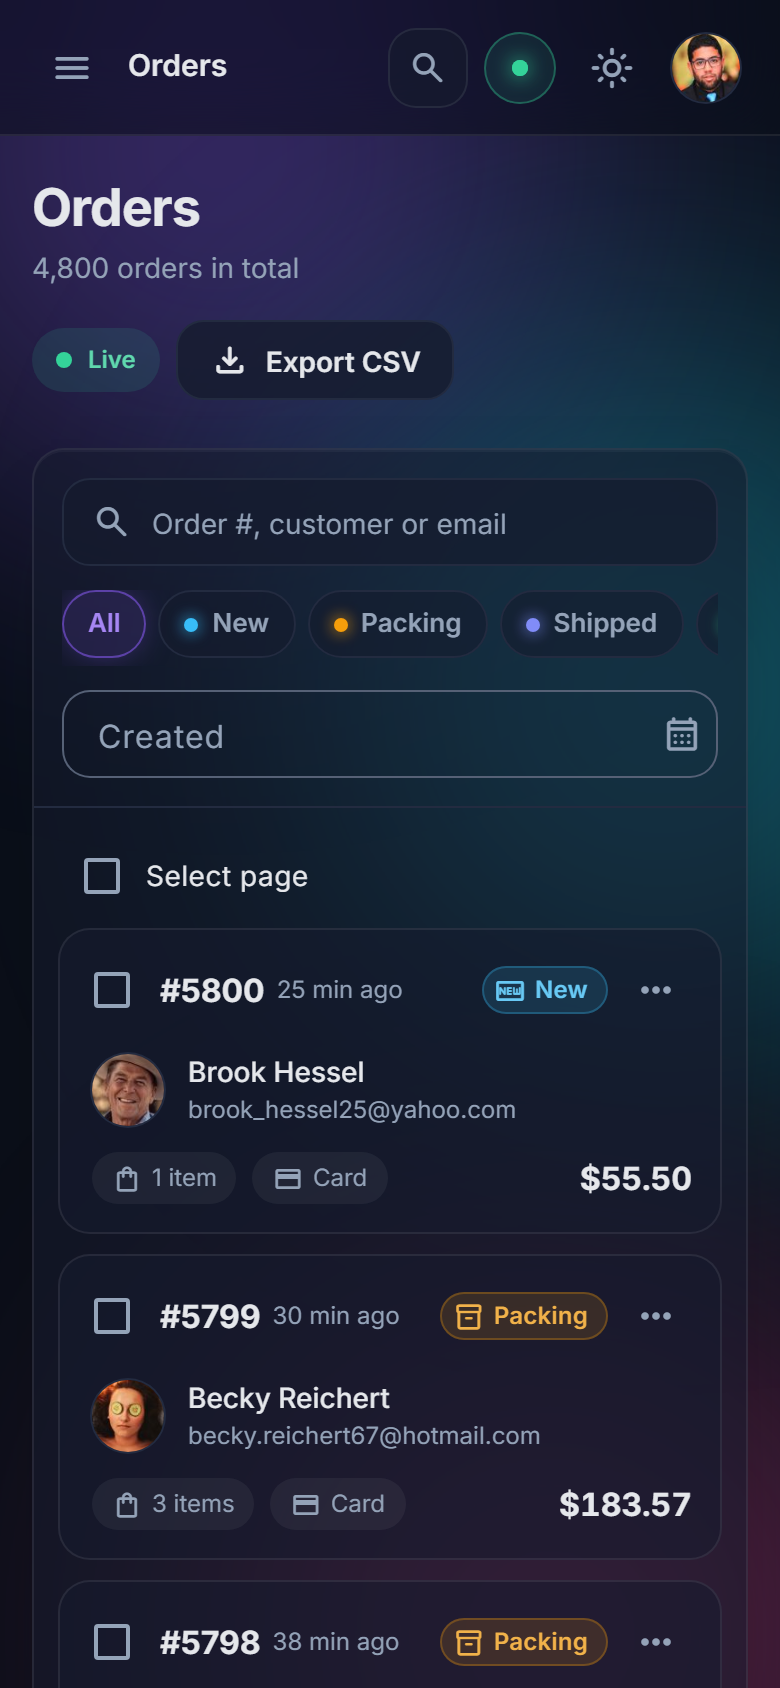
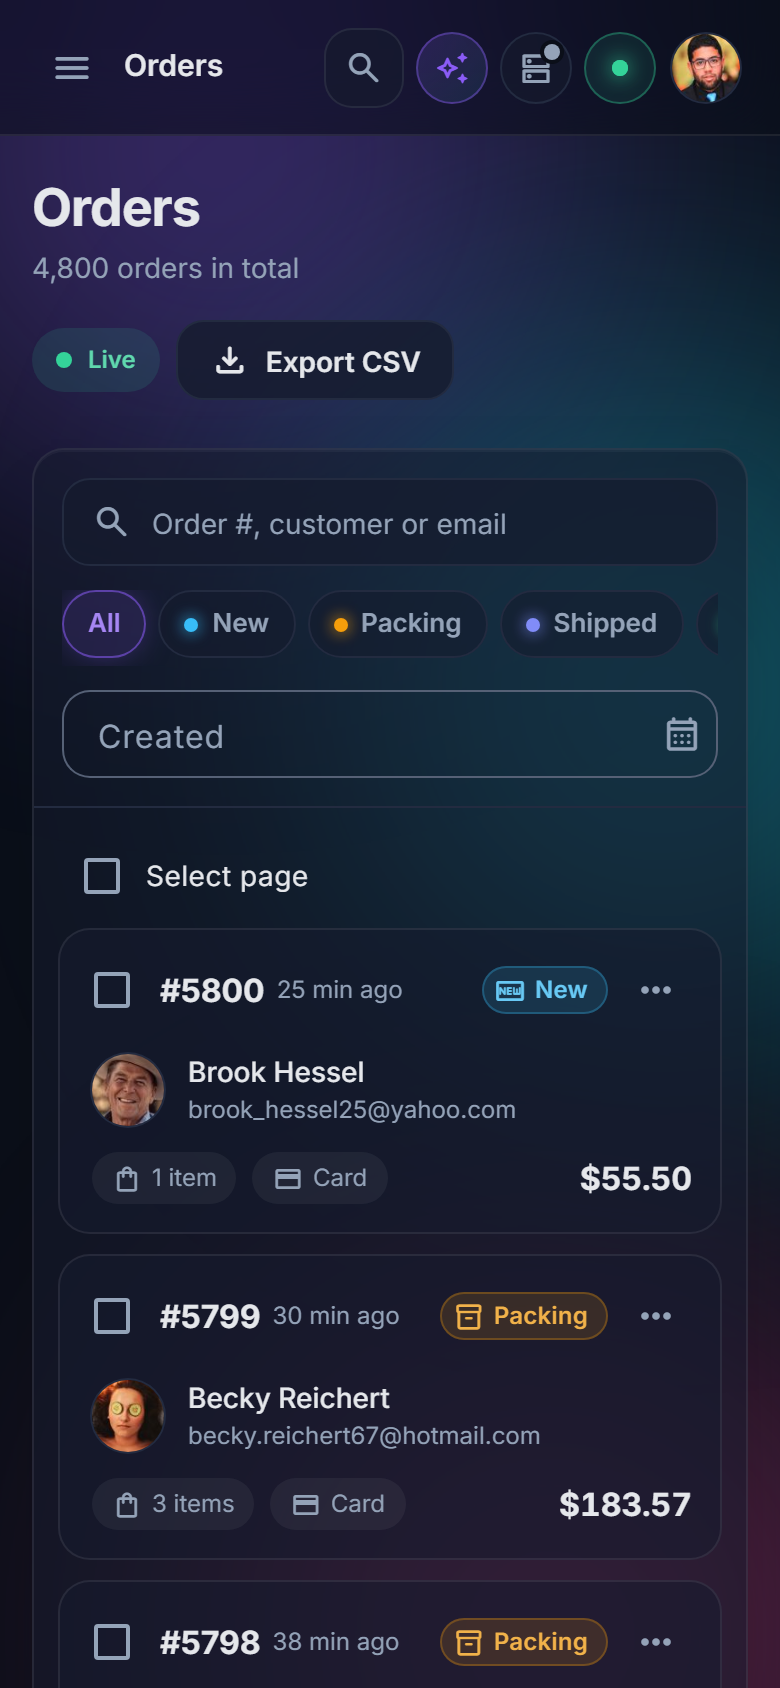
docs: add AI assistant screenshots and email-free catalog copies

Changed region(s): [[0.5231, 0.0, 0.8308, 0.0616], [0.1538, 0.0308, 0.3077, 0.0616], [0.4308, 0.0308, 0.4923, 0.0616]]

diff --git a/e2e/screenshots.spec.ts b/e2e/screenshots.spec.ts
@@ -6,7 +6,12 @@ import { Browser, BrowserContextOptions, Page, expect, test } from '@playwright/
  * latency and random failures; the clock is pinned to the demo's "now".
  */
 
-const OUT_DIR = 'portfolio/screenshots';
+/**
+ * `NO_EMAILS=1` writes a copy without any e-mail addresses to `portfolio/catalog/`:
+ * marketplaces such as Upwork reject images that show contact details, even demo ones.
+ */
+const NO_EMAILS = !!process.env['NO_EMAILS'];
+const OUT_DIR = NO_EMAILS ? 'portfolio/catalog' : 'portfolio/screenshots';
 /** Seed "now" is 2026-09-24T12:00Z; a few minutes later keeps relative times fresh. */
 const DEMO_TIME = new Date('2026-09-24T12:20:00Z');
 
@@ -117,10 +122,25 @@ async function goLive(page: Page): Promise<void> {
   await page.waitForTimeout(300);
 }
 
+/** Blanks every text node that holds an e-mail address, keeping the layout intact. */
+async function hideEmails(page: Page): Promise<void> {
+  await page.evaluate(() => {
+    const email = /[\w.+-]+@[\w-]+\.[\w.]+/;
+    const walker = document.createTreeWalker(document.body, NodeFilter.SHOW_TEXT);
+    for (let node = walker.nextNode(); node; node = walker.nextNode()) {
+      if (email.test(node.textContent ?? '')) node.parentElement?.style.setProperty('visibility', 'hidden');
+    }
+    document.querySelectorAll<HTMLInputElement>('input, textarea').forEach((el) => {
+      if (email.test(el.value)) el.style.setProperty('color', 'transparent');
+    });
+  });
+}
+
 async function shoot(page: Page, name: string, fullPage = false): Promise<void> {
   // No focus rings or hover states from earlier interactions.
   await page.evaluate(() => (document.activeElement as HTMLElement | null)?.blur?.());
   await page.mouse.move(0, 0);
+  if (NO_EMAILS) await hideEmails(page);
   if (fullPage) {
     // Grow the viewport to the content instead of Playwright's `fullPage`, so the
     // viewport-sized sidebar and background stretch with the page.
@@ -244,5 +264,62 @@ test('12 + 13 mobile overview and orders (dark)', async ({ browser }) => {
   await shoot(page, '12-mobile-overview');
   await go(page, '/orders');
   await shoot(page, '13-mobile-orders');
+  await page.context().close();
+});
+
+/**
+ * Opens "Ask Nebula AI" from the topbar, asks a suggested question and waits until the
+ * recorded answer (templated from mock data, deterministic) has fully rendered.
+ */
+async function askAi(page: Page, question: string): Promise<void> {
+  await page.locator('button.nb-ask-ai').evaluate((el: HTMLElement) => el.click());
+  const panel = page.getByRole('dialog', { name: 'Ask Nebula AI' });
+  await expect(panel).toBeVisible();
+  await panel.getByRole('button', { name: question }).click();
+  await expect(panel.locator('.nb-ai__typing')).toHaveCount(0);
+  await expect(panel.locator('nb-markdown-lite li').first()).toBeVisible();
+  await expect(panel.locator('.nb-ai__tools')).toBeVisible();
+  await page.waitForLoadState('networkidle');
+  // Let the message entrance and the thread's scroll-to-bottom finish.
+  await page.waitForTimeout(800);
+}
+
+const AI_QUESTION = 'What were my top 5 products this month?';
+
+test('14 AI assistant (dark + light)', async ({ browser }) => {
+  for (const mode of ['dark', 'light'] as const) {
+    const page = await openPage(browser, { mode });
+    await go(page, '/overview');
+    await askAi(page, AI_QUESTION);
+    await shoot(page, `14-ai-assistant-${mode}`);
+    await page.context().close();
+  }
+});
+
+test('15 AI product description (dark)', async ({ browser }) => {
+  const page = await openPage(browser);
+  await go(page, '/products');
+  await page.getByPlaceholder('Search by name or SKU').fill('Action Camera');
+  await page.waitForLoadState('networkidle');
+  await page.locator('a[href*="/edit"]').filter({ hasText: 'Action Camera' }).first().click();
+  await expect(page).toHaveURL(/\/products\/[^/]+\/edit/);
+  await settle(page);
+
+  await page.getByLabel('Description tone').selectOption('premium');
+  await page.getByRole('button', { name: 'Generate with AI' }).click();
+  const description = page.locator('#product-description');
+  await expect(description).toHaveValue(/quiet luxury/);
+  await expect(page.locator('.nb-ai-gen__badge')).toBeVisible();
+  await page.locator('.nb-ai-gen').scrollIntoViewIfNeeded();
+  await page.waitForTimeout(500);
+  await shoot(page, '15-ai-product-description-dark');
+  await page.context().close();
+});
+
+test('16 AI assistant mobile (dark)', async ({ browser }) => {
+  const page = await openPage(browser, { viewport: { width: 390, height: 844 }, mobile: true });
+  await go(page, '/overview');
+  await askAi(page, AI_QUESTION);
+  await shoot(page, '16-ai-assistant-mobile');
   await page.context().close();
 });
